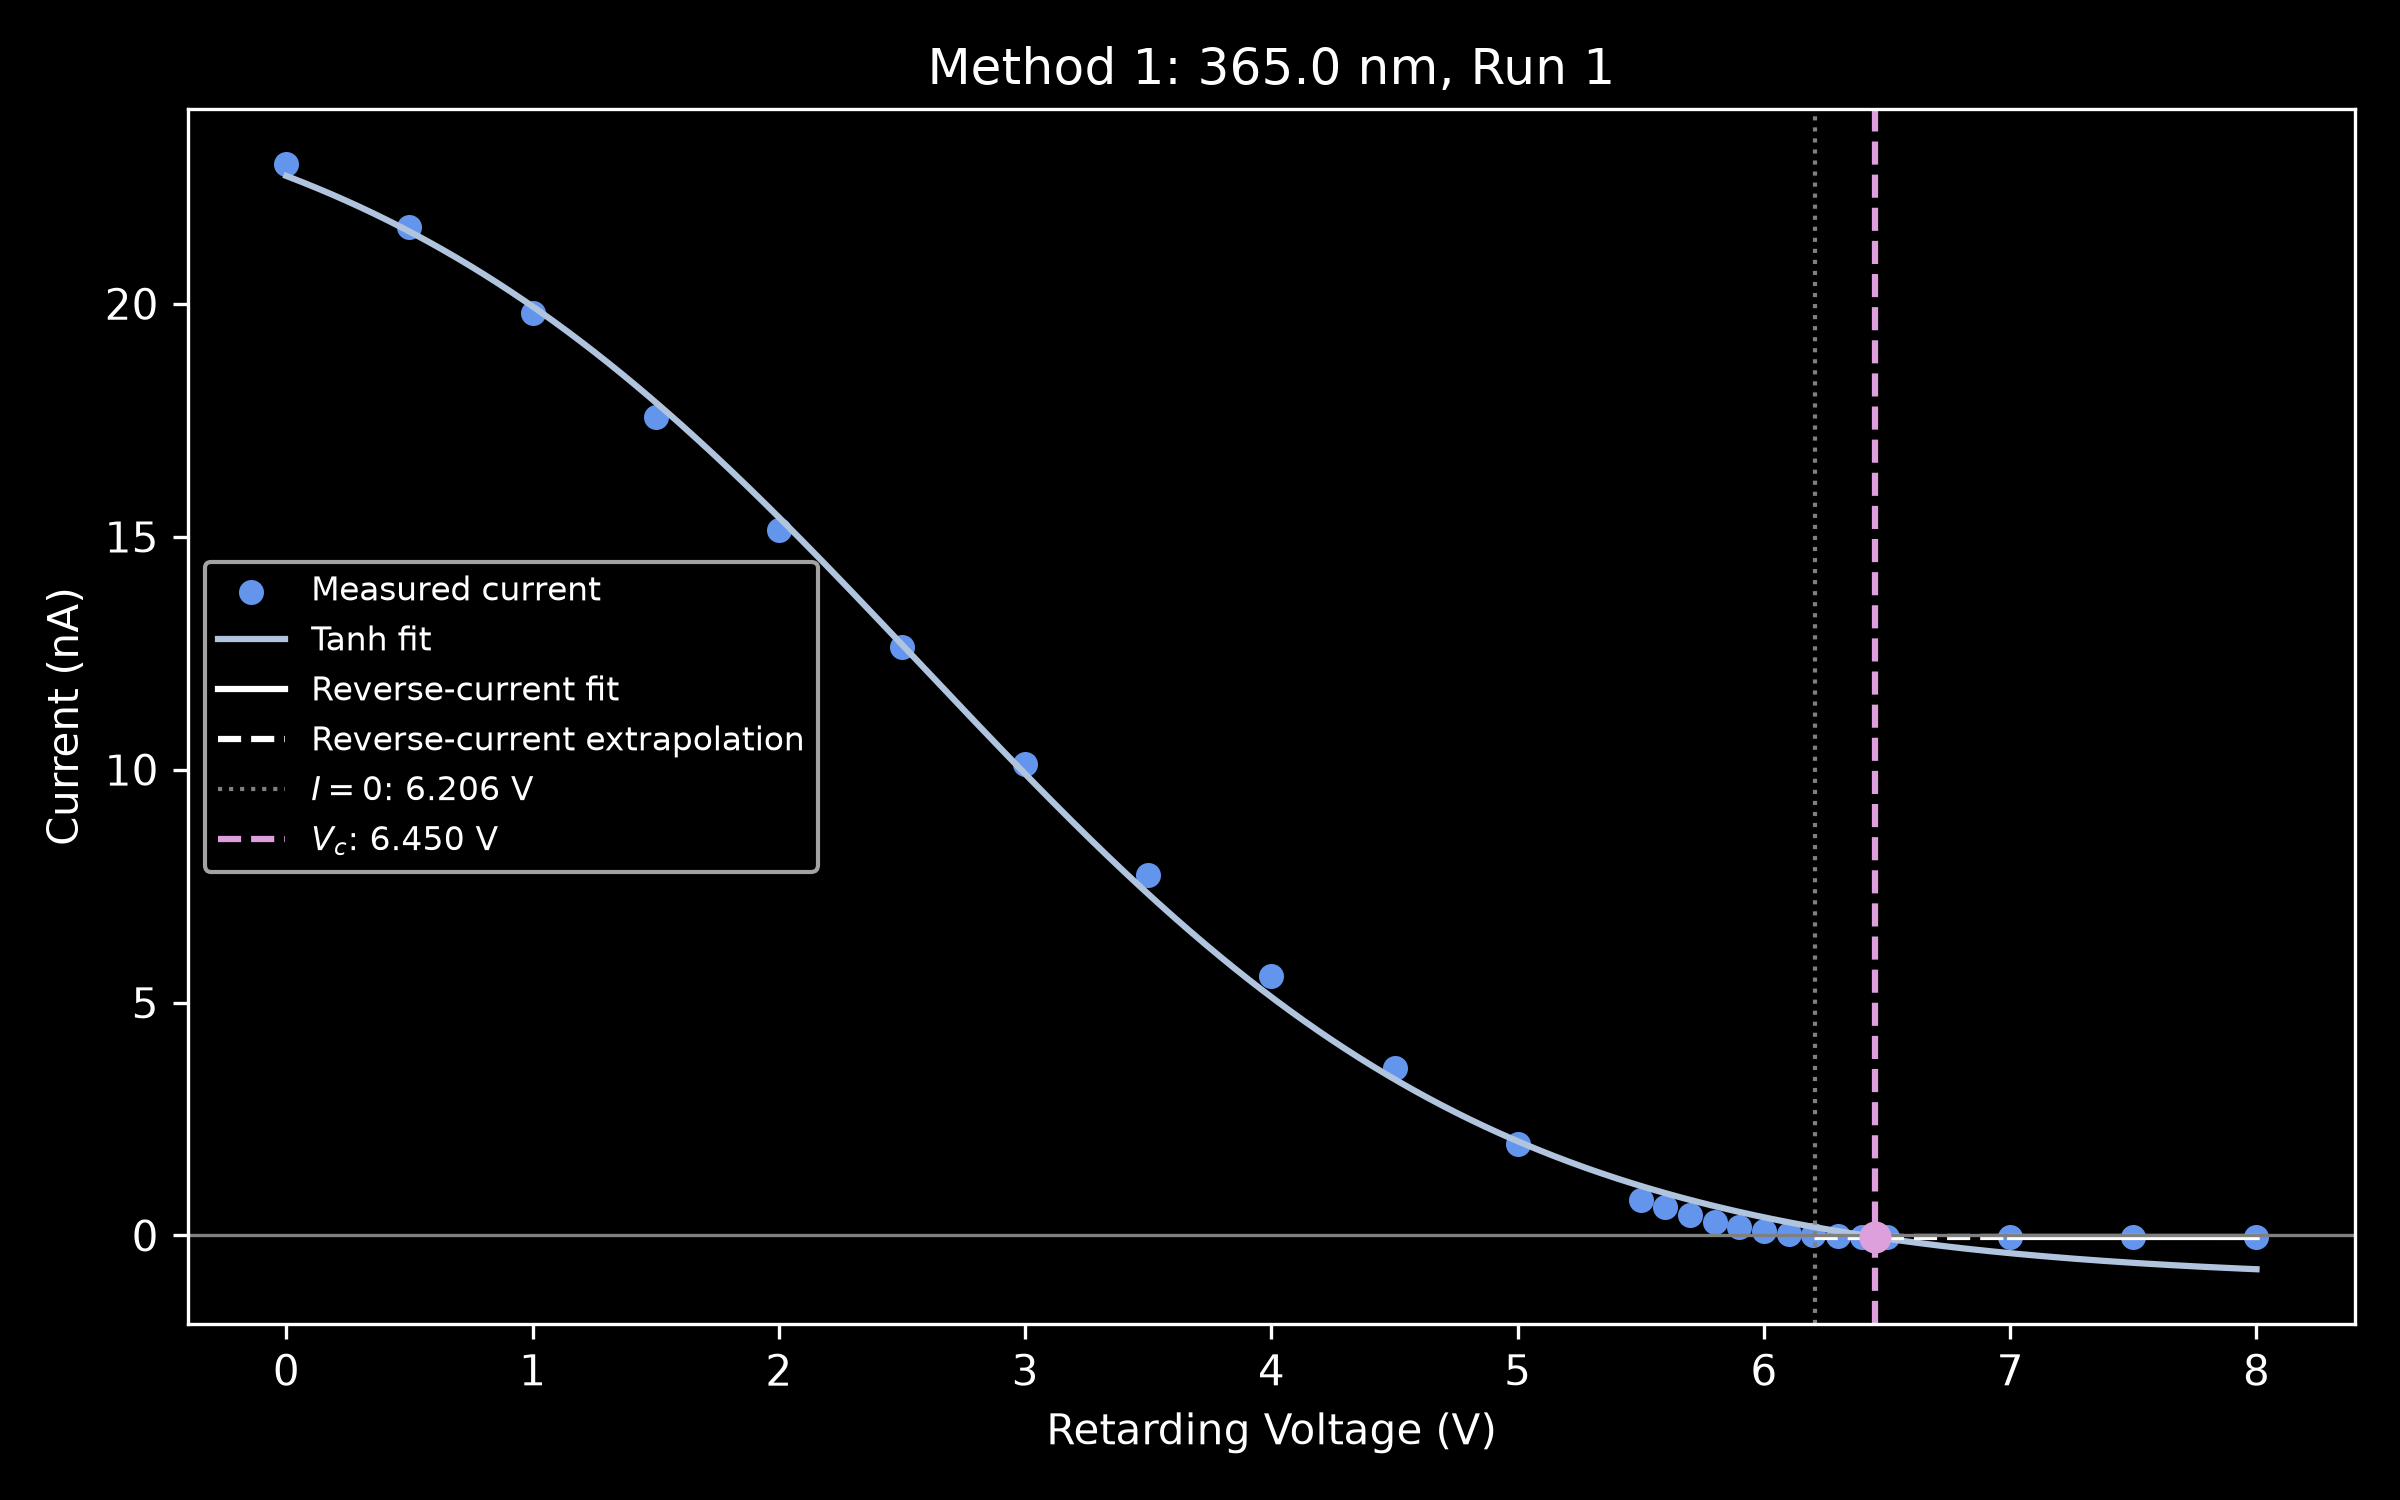
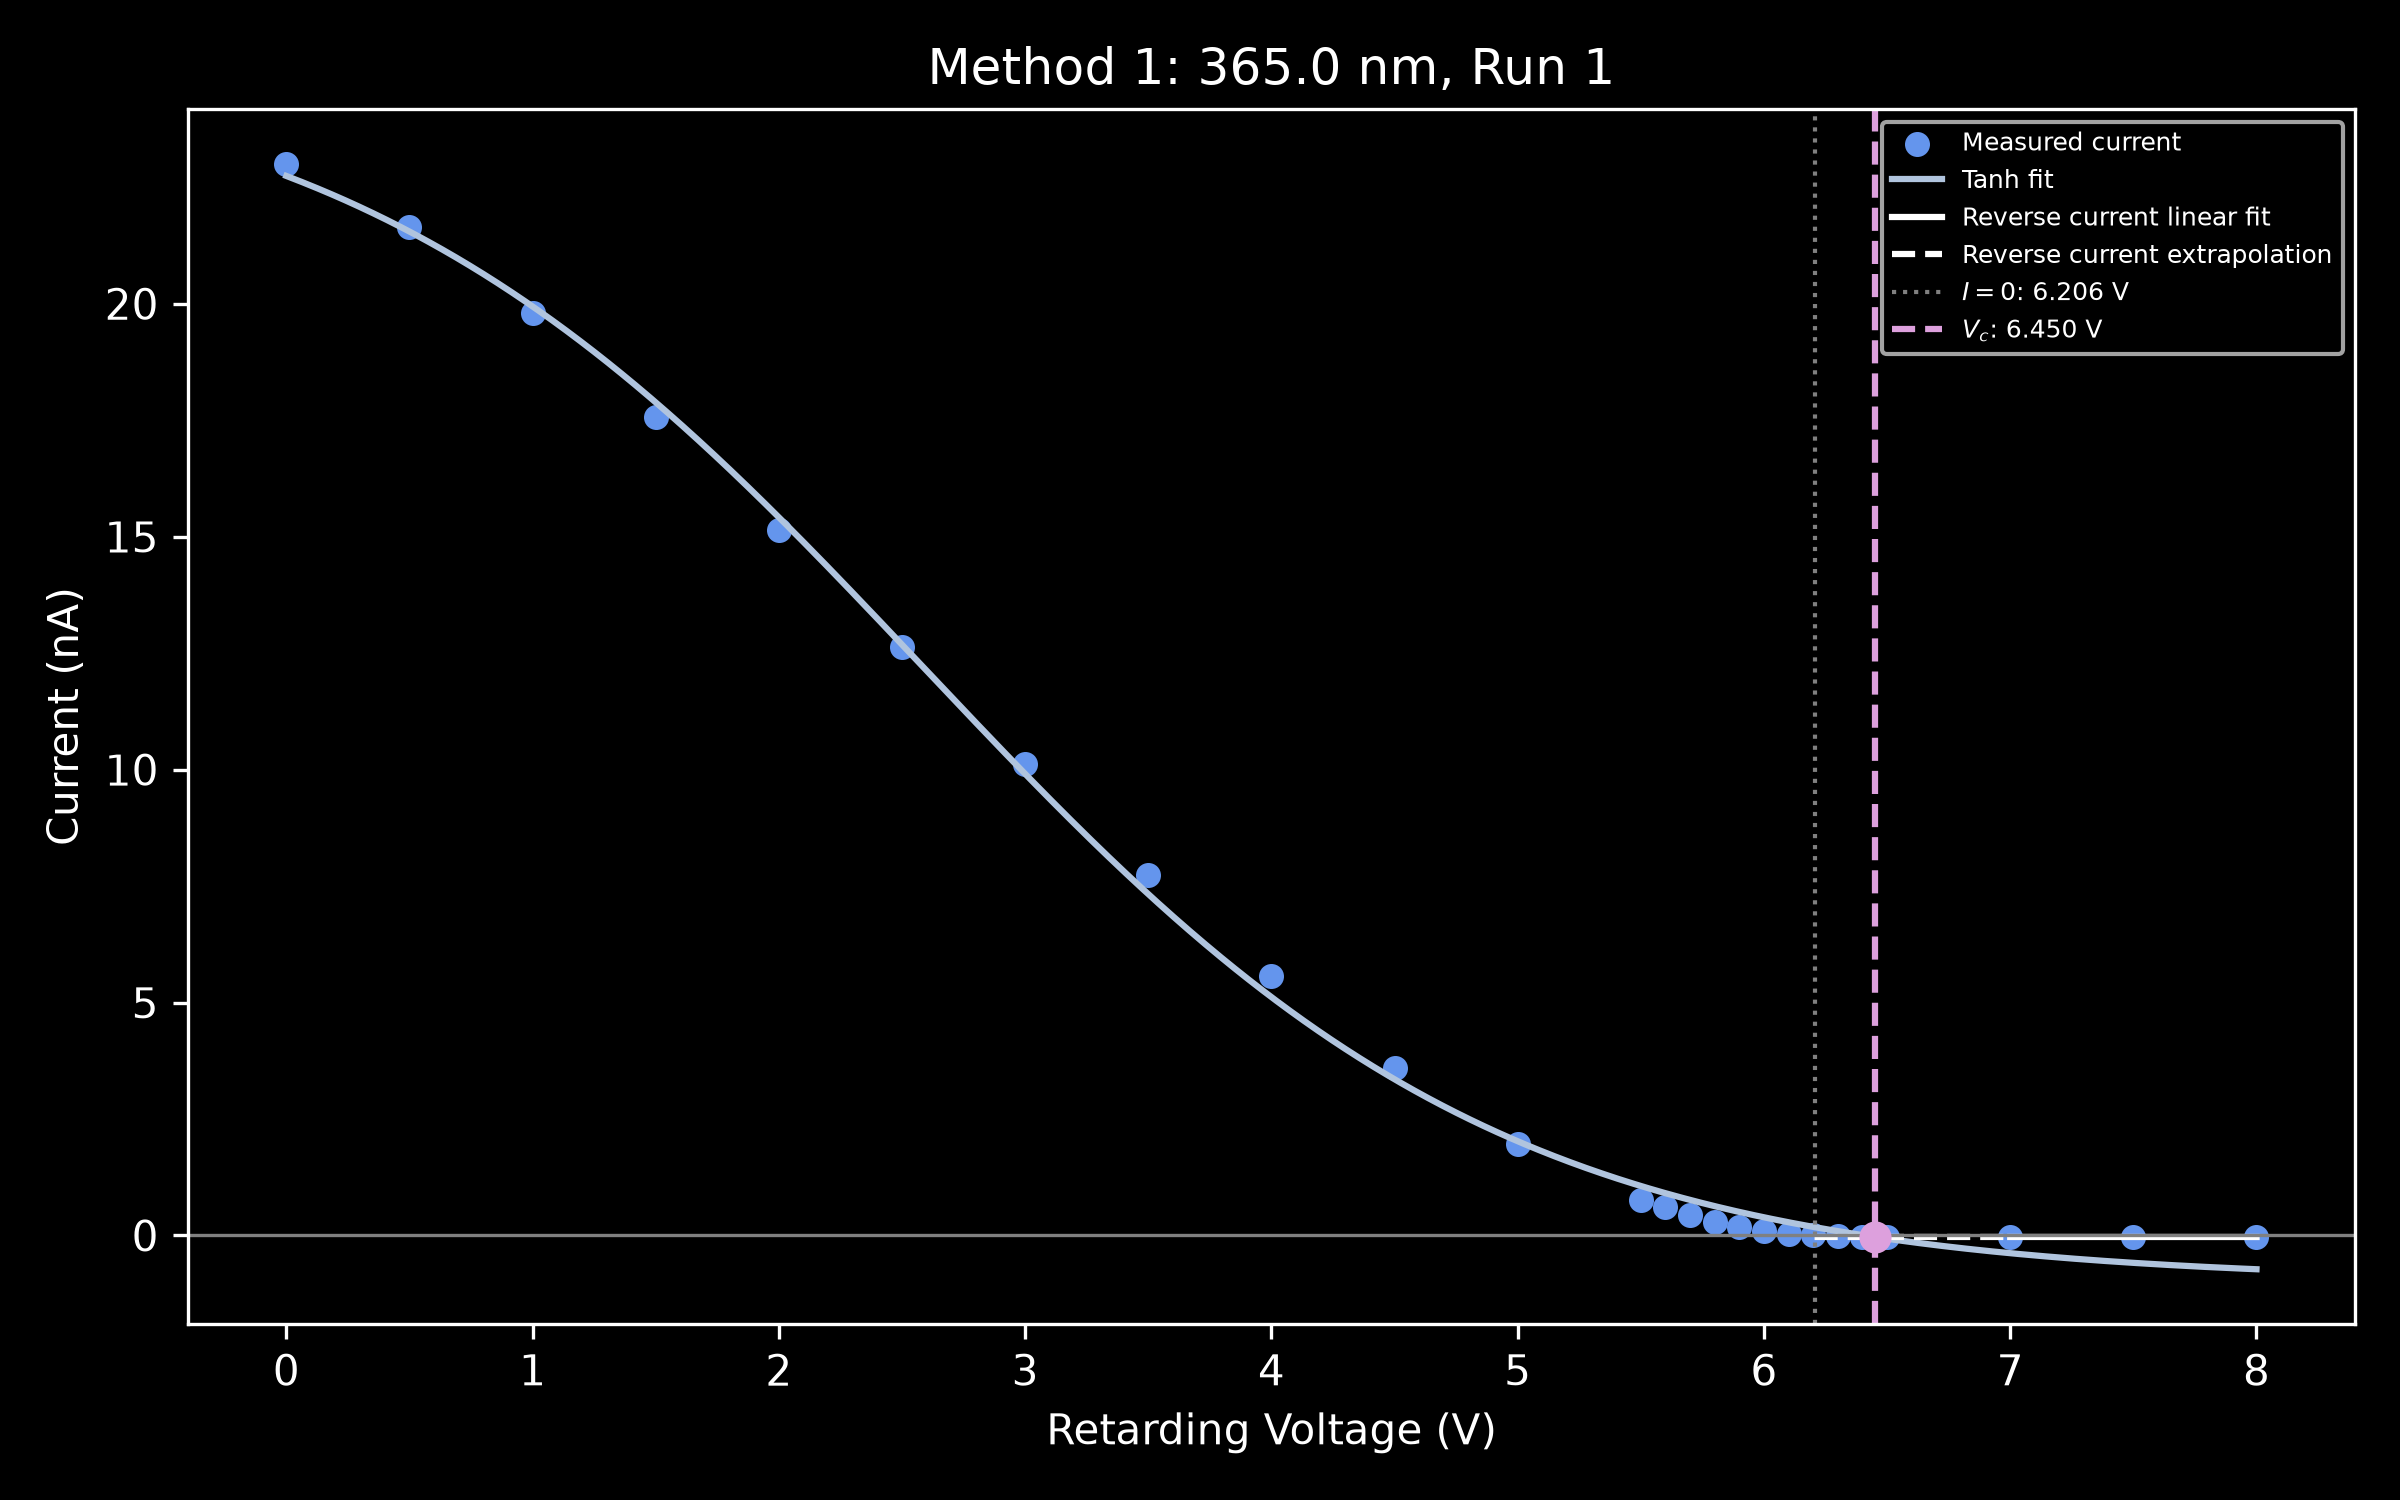
Fixed tanh fit plot legibility

diff --git a/photoelectric/analysis/method1_tanh.py b/photoelectric/analysis/method1_tanh.py
@@ -231,7 +231,7 @@ for wavelength in wavelengths:
                 b
             ),
             color="white",
-            label="Reverse-current fit"
+            label="Reverse current linear fit"
         )
 
         if (
@@ -254,7 +254,7 @@ for wavelength in wavelengths:
                 ),
                 color="white",
                 linestyle="--",
-                label="Reverse-current extrapolation"
+                label="Reverse current extrapolation"
             )
 
         # measured zero crossing
@@ -297,7 +297,7 @@ for wavelength in wavelengths:
         plt.xlabel("Retarding Voltage (V)")
         plt.ylabel("Current (nA)")
         plt.title(f"Method 1: {wavelength} nm, Run {run}")
-        plt.legend(fontsize=8)
+        plt.legend(fontsize=6)
         plt.tight_layout()
 
         plt.savefig(
